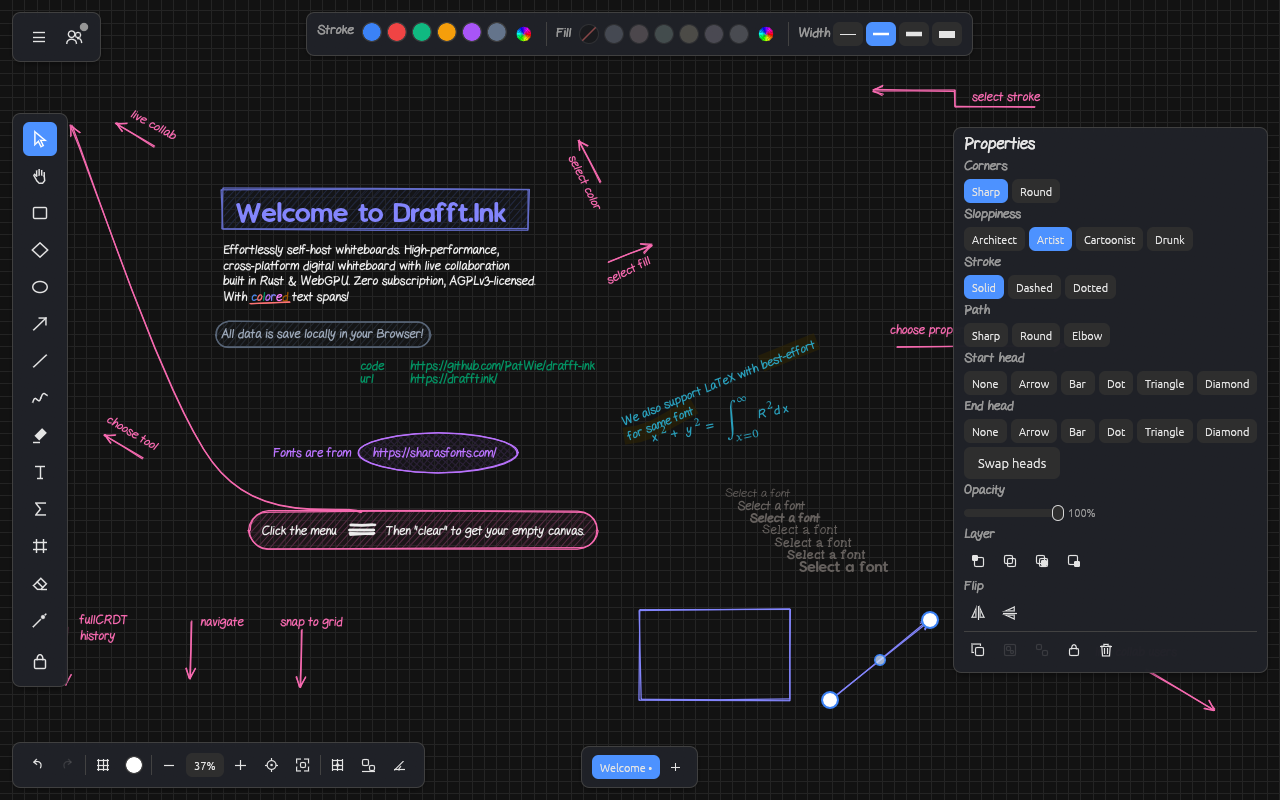
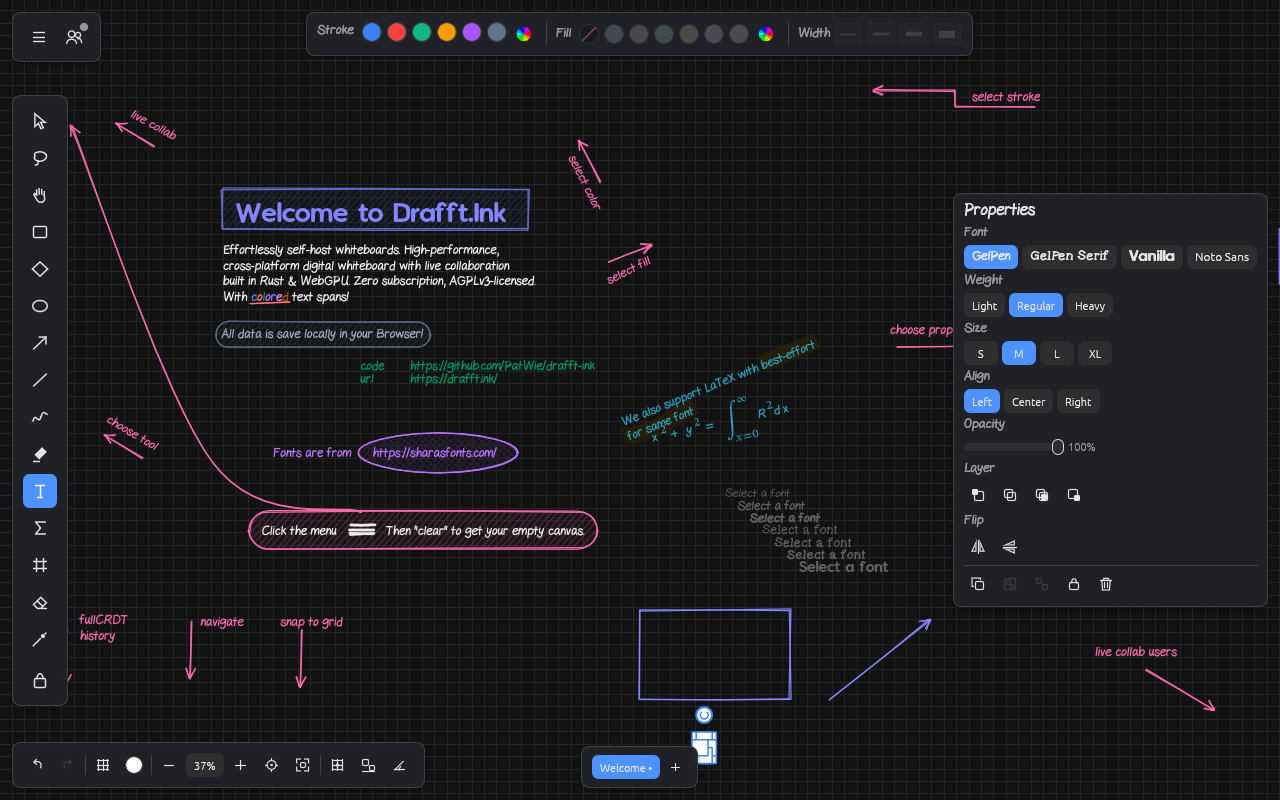
native_check: bridge-drawn bound arrow and move, current toolbar positions; screenshots

diff --git a/scripts/native_check.py b/scripts/native_check.py
@@ -196,17 +196,39 @@ try:
     n_before = sum(before.get("counts", {}).values()) if isinstance(before.get("counts"), dict) else None
     print("intro:", json.dumps(before)[:300], flush=True)
     img = shot("native-intro.png")
-    ink = sum(1 for p in img.getdata() if p != img.getpixel((640, 600)))
+    bg = img.getpixel((640, 600)); ink = sum(1 for p in img.get_flattened_data() if p != bg)
     check(ink > 20000, f"the intro document is on screen ({ink} non-background pixels)")
+
+    # Draw through the bridge: two rectangles, an arrow bound to both, then move one and see the arrow follow.
+    f0 = len(frames())
+    ex = lambda i, a: ws.ok("execute", {"id": i, "args": a})
+    ra = ex("element.create", {"kind": "rectangle", "bounds": {"x": 2000, "y": 100, "w": 160, "h": 90}})["id"]
+    rb = ex("element.create", {"kind": "rectangle", "bounds": {"x": 2400, "y": 200, "w": 160, "h": 90}})["id"]
+    arrow = ex("element.create", {"kind": "arrow", "points": [[2160, 145], [2400, 245]], "start": {"target": ra}, "end": {"target": rb}})
+    check(arrow.get("start_target") == ra and arrow.get("end_target") == rb, f"the bridge made an arrow bound to both shapes ({arrow.get('start_target')}, {arrow.get('end_target')})")
+    pts = lambda: ex("doc.inspect", {"ids": [arrow["id"]], "detail": "full"})["items"][0]["points"]
+    p0 = pts()
+    ex("element.move", {"ids": [ra], "dx": 0, "dy": 150})
+    p1 = pts()
+    check(p0 != p1, f"element.move dragged the bound arrow along ({p0} -> {p1})")
+    time.sleep(1.0)
+    check(len(frames()) > f0, f"the bridge commands drew frames ({len(frames()) - f0})")
+    cam = ex("view.get", {})
+    ex("selection.clear", {})
+    ex("view.zoom_to_fit", {"scope": "ids", "ids": [ra, rb, arrow["id"]]})
+    time.sleep(0.8)
+    shot("native-bridge-drawn.png")
+    ex("view.set", {"scroll": cam["scroll"], "zoom": cam["zoom"]})
+    time.sleep(0.5)
 
     # Draw with the toolbar and the mouse: rectangle tool, then arrow tool.
     f0 = len(frames())
-    click(40, 213)
+    click(40, 232)
     drag(640, 610, 790, 700)
-    click(40, 324)
+    click(40, 343)
     drag(830, 700, 930, 620)
     # Text: the text tool, a click, typing, Esc.
-    click(40, 473)
+    click(40, 491)
     focus_app()
     print("after T click:", [(e["id"], e["source"], e["outcome"]) for e in ws.ok("recent", {"limit": 3})["entries"]], flush=True)
     click(700, 740)
@@ -222,6 +244,7 @@ try:
     print("after:", json.dumps(after)[:300], flush=True)
     recent = ws.ok("recent", {"limit": 30, "mutating_only": True})
     creates = [e for e in recent["entries"] if e["id"] == "element.create"]
+    creates = [e for e in creates if e["source"] != "agent"]  # the bridge made three earlier
     check(len(creates) >= 2, f"two element.create calls came from the mouse ({[ (e['id'], e['source']) for e in recent['entries']]})")
     kinds = [json.loads(e["args"]).get("kind") if e["args"].startswith("{") else None for e in creates]
     check("rectangle" in kinds and "arrow" in kinds, f"a rectangle and an arrow were created ({kinds})")
